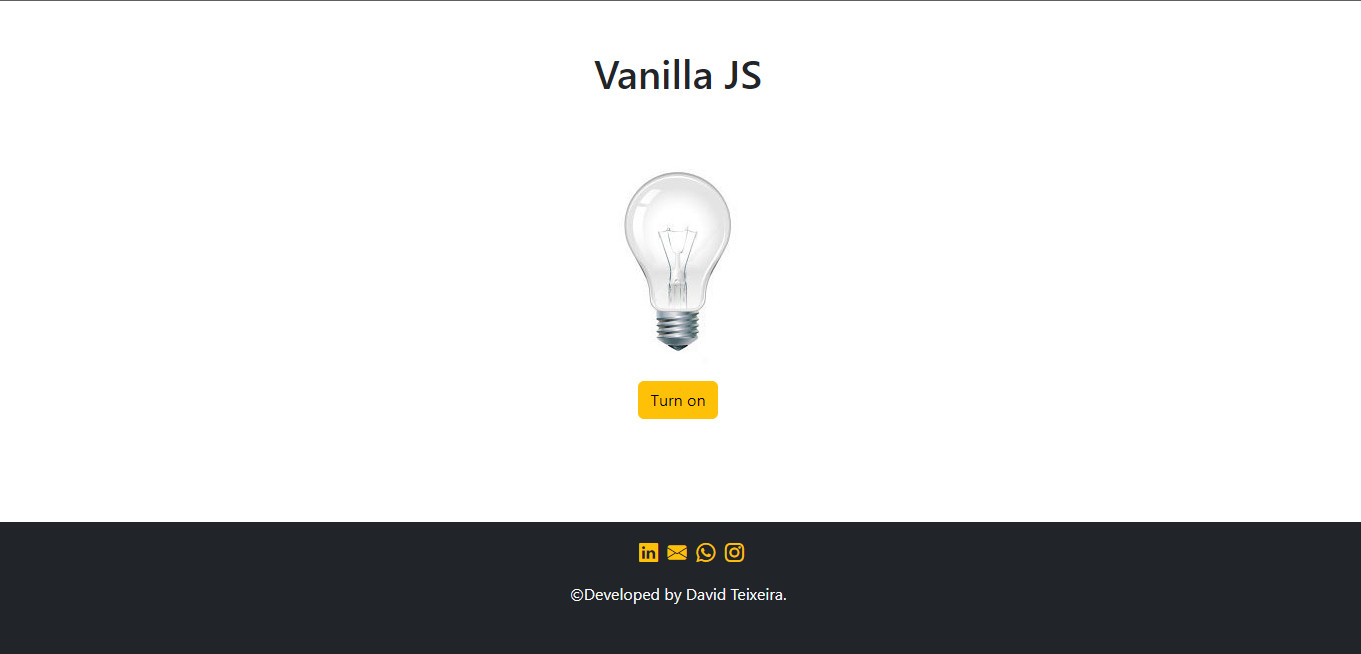
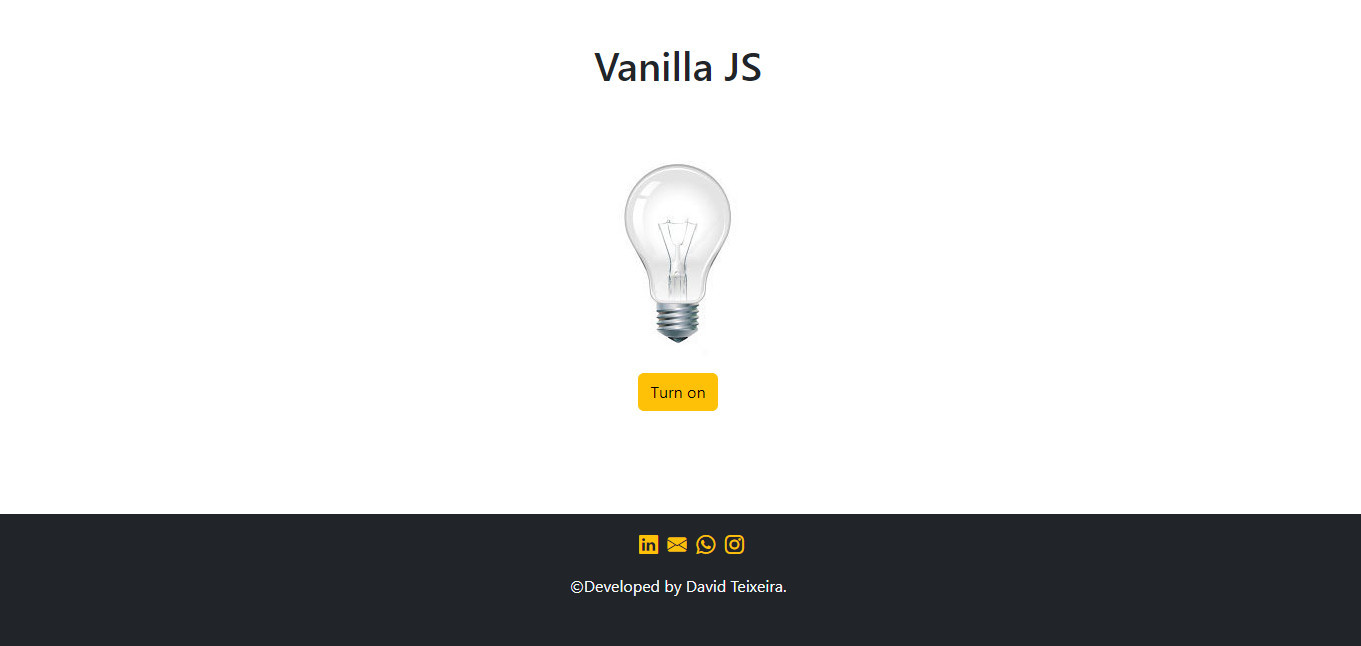
update

diff --git a/index.html b/index.html
@@ -26,10 +26,10 @@
             <div class="collapse navbar-collapse" id="navbarSupportedContent">
             <ul class="navbar-nav me-auto mb-2 mb-lg-0">
                 <li class="nav-item">
-                <a class="nav-link active" aria-current="page" href="#">Home</a>
+                <a class="nav-link" aria-current="page" href="#">Home</a>
                 </li>
                 <li class="nav-item">
-                <a class="nav-link text-danger" href="https://www.linkedin.com/in/david-teixeira-3363b51a6/?locale=en_US" target="_blank" rel="extrenal">Linkedin</a>
+                <a class="nav-link" href="https://www.linkedin.com/in/david-teixeira-3363b51a6/?locale=en_US" target="_blank" rel="extrenal">Linkedin</a>
                 </li>
                 <li class="nav-item">
                 <a class="nav-link" href="https://davidsilva32.github.io/portfolio/" target="_blank" rel="external">Portfolio</a>
@@ -66,7 +66,7 @@
                     <img src="img/lamp.jpg" class="img card-img-top" alt="Lamp">
                     <div class="card-body">
                       <h2 class="card-title">Dynamic lamp</h2>
-                      <p class="card-text">Some quick example text to build on the card title and make up the bulk of the card's content.</p>
+                      <p class="card-text">Lamp project, there are a lot of possible interactions in this project. Discover them all! I used <strong>JavaScript</strong> and <strong>Framework Bootsrap</strong>.</p>
                       <a href="https://davidsilva32.github.io/projects-js/02-lamp/index.html" target="_blank" rel="external" class="btn btn-primary">Let's go</a>
                     </div>
                 </div>

diff --git a/home.css b/home.css
@@ -10,8 +10,16 @@ strong {
     color: red;
 }
 
+main .card {
+    border: none;
+}
+
 main .img {
     min-height: 50vh;
+}
+
+main p {
+    line-height: 1.5em;   
 }
 
 /* Footer */

diff --git a/calculator-imc/script.js b/calculator-imc/script.js
@@ -26,6 +26,4 @@ button.addEventListener('click', () => {
     } else {
         res.textContent = 'Preencha os campos!'
     }
-
-    console.log(nome)
 })
